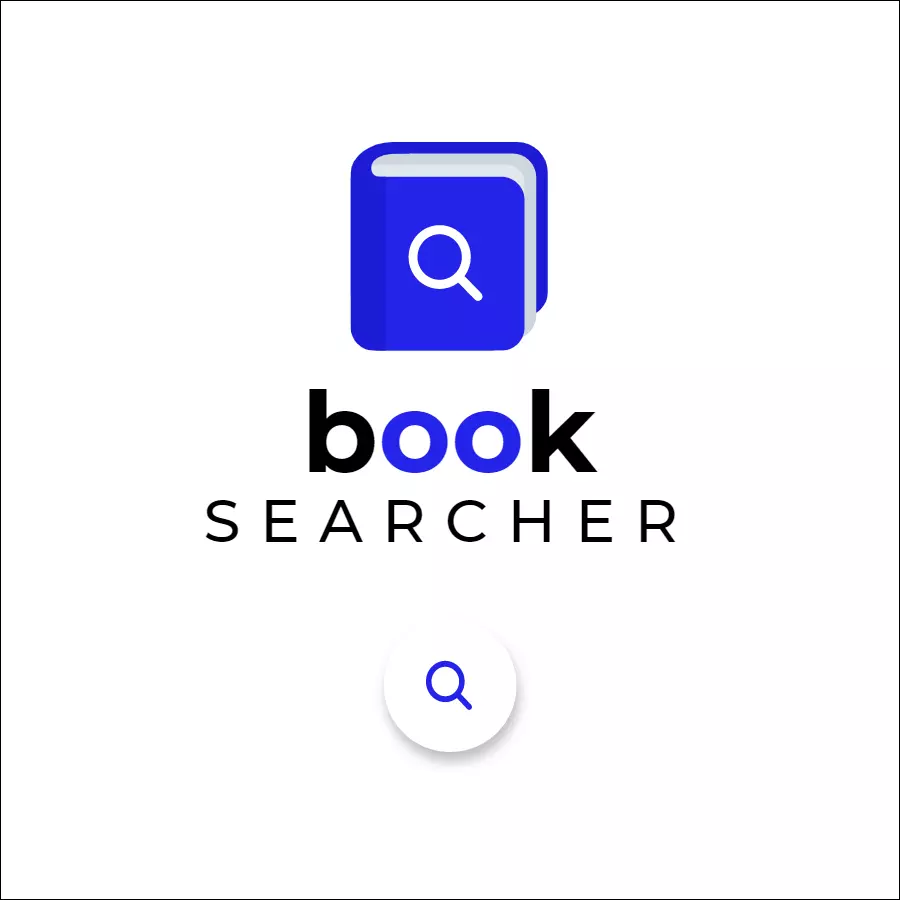
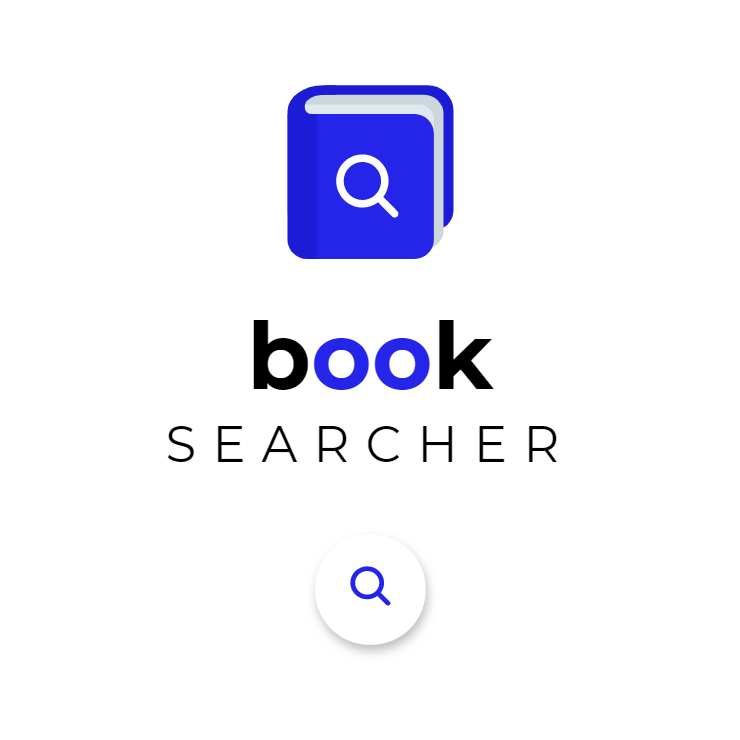
update book-searcher project photo

diff --git a/index.html b/index.html
@@ -317,7 +317,7 @@
         <article class="project" data-aos="zoom-in">
           <img
             class="project__image"
-            src="./images/projects/project1.png"
+            src="./images/projects/book-searcher.webp"
             alt="book searcher"
             border="1"
           />
